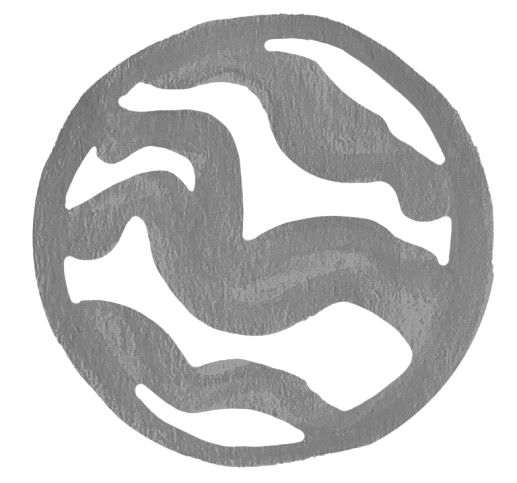
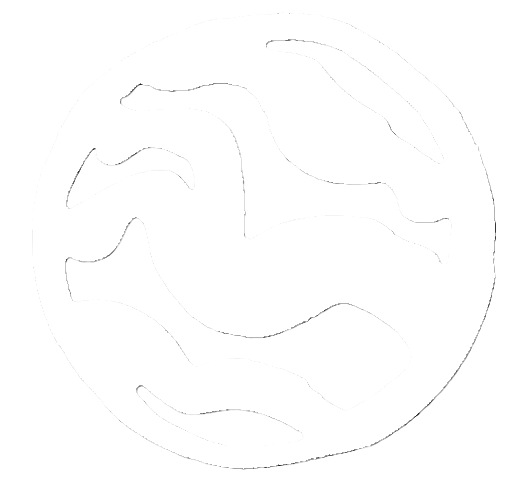
Added transparent algae/coral, fixed results screen

diff --git a/src/static/results.css b/src/static/results.css
@@ -217,10 +217,10 @@
 
 .rp-panel .autoRP.indicator img { content: url(../../images/autoRP.png); transform: scale(0.7); }
 .rp-panel .lit.autoRP.indicator img { content: url(../../images/lit-autoRP.png); transform: scale(0.7);  }
-.rp-panel .coralRP.indicator img { content: url(../../images/grey-ensemble.png); transform: scale(0.8); }
-.rp-panel .lit.coralRP.indicator img { content: url(../../images/lit-ensemble.png); transform: scale(0.8); }
-.rp-panel .bargeRP.indicator img { content: url(../../images/grey-ensemble.png); transform: scale(0.8); }
-.rp-panel .lit.bargeRP.indicator img { content: url(../../images/lit-ensemble.png); transform: scale(0.8); }
+.rp-panel .coralRP.indicator img { content: url(../../images/grey-coral.png); transform: scale(0.8); }
+.rp-panel .lit.coralRP.indicator img { content: url(../../images/grey-coral.png); transform: scale(0.8); }
+.rp-panel .bargeRP.indicator img { content: url(../../images/grey-barge.png); transform: scale(0.8); }
+.rp-panel .lit.bargeRP.indicator img { content: url(../../images/lit-barge.png); transform: scale(0.8); }
 .rp-panel .win.indicator img { content: url(../../images/win-icon-grey.png); transform: scale(0.7); }
 .rp-panel .lit.win.indicator img { content: url(../../images/win-icon.png); transform: scale(0.7); }
 

diff --git a/src/renderer/match.js b/src/renderer/match.js
@@ -388,7 +388,7 @@ export class Match {
             else this.removeTeleopCoralL3();
         }
 
-                addCoralL4() {
+        addCoralL4() {
             if (Competition.inAuto) this.addAutoCoralL4();
             else this.addTeleopCoralL4();
         };
